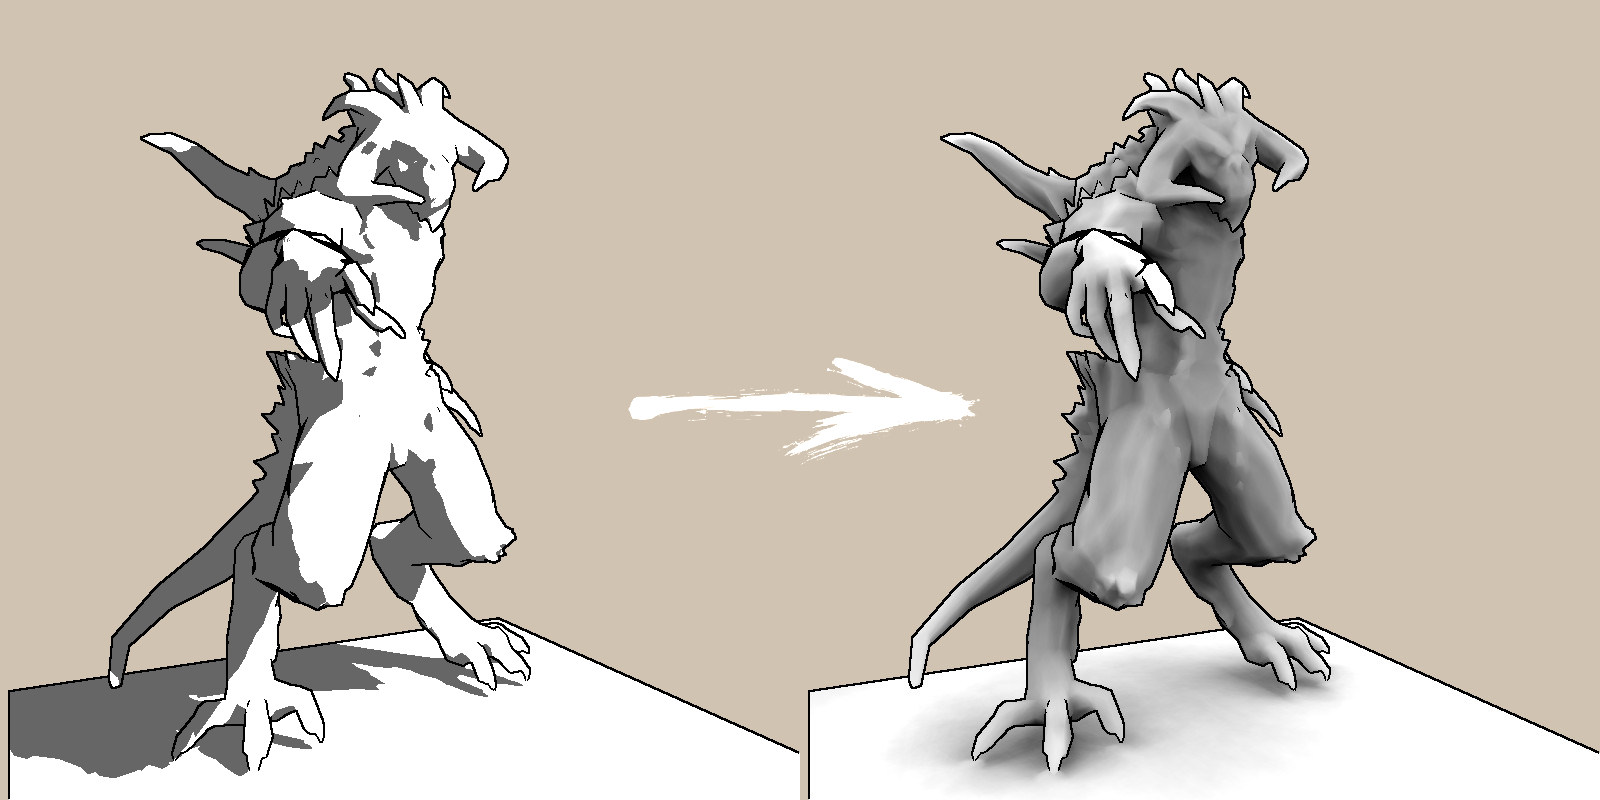
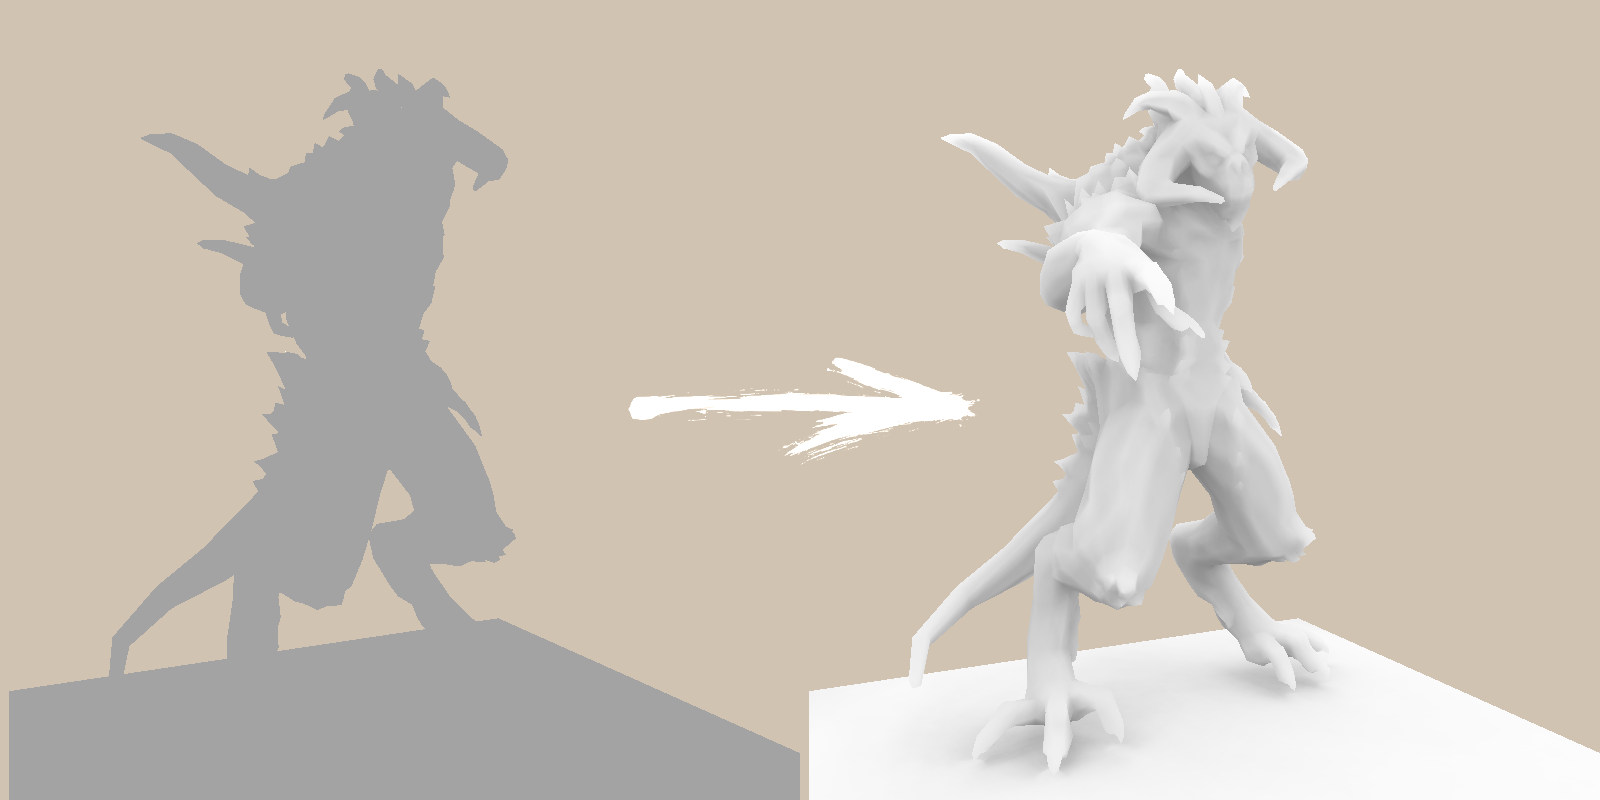
SSAO okayish

Changed region(s): [[0.0, 0.0938, 0.5, 1.0], [0.5625, 0.0938, 0.8438, 0.9688]]

diff --git a/docs/tinyrenderer/ssao.md b/docs/tinyrenderer/ssao.md
@@ -2,89 +2,96 @@
 title: Ambient occlusion
 ---
 
-# (Attention, work in progress) Ambient occlusion
+# Indirect lighting
 
-In the classical Phong reflection model, the ambient term is often represented as a simple constant added to the shading equation.
+## Introduction
+
+When light interacts with a scene, not all of it travels directly from a light source to a surface.
+Some of it bounces off other surfaces before arriving at the point we observe.
+This bounced light is called indirect lighting.
+
+For example, if you place a red ball on a white floor, the floor will pick up a faint reddish tint. That happens because light first hits the red ball, reflects off it, and then illuminates the floor:
+
+![](ssao/ball.jpg)
+
+Another example is a room lit by the sun through a window: even corners not directly exposed to the sunlight are visible. They receive light indirectly from the walls, floor, and ceiling.
+
+Indirect lighting is essential for realism because it accounts for how surfaces exchange light with each other. Without it, images look flat and artificial: shadows are completely black, and there’s no color bleeding between objects.
+
+## Ambient occlusion
+
+In the classical Phong reflection model, the ambient term is often represented as a simple **constant** added to the shading equation.
 This constant acts as a crude approximation of indirect lighting: it prevents regions not directly lit by any source from appearing completely black.
 While effective for real-time rendering, this approach lacks realism because it does not account for the actual geometry of the scene and how much of the surrounding light can reach a given point.
 
-A more physically motivated idea is to consider global illumination, where light is allowed to bounce and scatter between surfaces.
-One practical approximation of this idea is ambient occlusion (AO).
-Instead of assuming a uniform ambient term everywhere, AO measures how much of the hemisphere around a point is blocked by nearby geometry.
-Points in narrow crevices or under overhangs appear darker, while exposed points on open surfaces remain brighter.
-This creates the perception of depth and realism, even without fully simulating indirect light transport.
-
-A simple way to approximate ambient occlusion is by extending the concept of shadow mapping.
-In standard shadow mapping, we determine whether a point is visible from a light source, producing a binary "in shadow" or "lit" decision.
-For ambient occlusion, we could imagine rendering many such shadow maps from different directions across the hemisphere around a point, each one giving us a hard shadow.
-By averaging the results of many such "virtual shadow tests," we obtain a continuous measure of how occluded a point is by its surroundings.
-This technique transforms the idea of a constant ambient term into a geometry-aware shading effect, bridging the gap between Phong’s local model and global illumination.
-
 [![](ssao/teaser.jpg)](ssao/teaser.jpg)
+
+A more physically motivated idea is to consider **global illumination**, where light is allowed to bounce and scatter between surfaces.
+This approach is computationally expensive, though. One practical approximation of this idea is **ambient occlusion (AO)**.
+
+Instead of assuming a uniform ambient term everywhere, we can approximate indirect lighting by extending the concept of shadow mapping.
+In standard shadow mapping, we determine whether a point is visible from a light source, producing a binary "in shadow" or "lit" decision.
+
+For ambient occlusion, we could imagine rendering many such shadow maps from different directions across the hemisphere around the object, each one giving us a hard shadow.
+By averaging the results of many such "virtual shadow tests," we obtain a continuous measure of how occluded a point is by its surroundings.
+Here I show 1000 camera positions I have used to obtain the image:
+
 
 ![](ssao/samples.jpg)
 
-# Screen-space ambient occlusion
+This technique transforms the idea of a constant ambient term into a geometry-aware shading effect, bridging the gap between Phong’s local model and global illumination.
+Points in narrow crevices or under overhangs appear darker, while exposed points on open surfaces remain brighter.
+This creates the perception of depth and realism, even without fully simulating indirect light transport.
 
-## Bonus: Sobel edge detection
+## Homework 1
 
-Think of a row of pixel intensities as of a 1D signal.
-In 1D, edge detection is just about finding changes in signal intensity.
-An edge is where the signal changes quickly.
+Implement this brute-force approach of ambient occlusion computation.
+If you have already implemented shadow mapping, this one should be straightforward.
 
-The simplest way:
+As always, my implementation [is available here](https://github.com/ssloy/tinyrenderer/tree/974424b09ee46fe50a89b9dadaa743942f2b4adc).
 
-    Look at the left neighbor and the right neighbor.
+## Screen-space ambient occlusion
 
-    Subtract them.
+The idea of computing ambient occlusion with many shadow maps is conceptually straightforward: render the scene from many different directions, check which points are visible and which are blocked, and then average the results.
+This captures how much of the surrounding hemisphere is occluded by geometry.
 
-That’s exactly what the 1D Sobel filter [-1, 0, +1] does:
+While this method can produce very realistic results, it requires a large number of shadow map renders per frame, which makes it far too expensive for real-time applications such as games.
+To overcome this, graphics researchers developed Screen-Space Ambient Occlusion (SSAO).
+Instead of sampling the entire 3D scene from many directions, SSAO estimates occlusion using only the information already available in the **screen space**, namely the **depth buffer** (distance from the camera for each pixel) and sometimes the **normal buffer** (surface orientation).
 
-    Multiply left pixel by -1
+The basic idea is:
 
-    Ignore the center
+- For each fragment, randomly sample a few points around it.
+- Compare the sampled points’ depths with the depth buffer.
+  If a sample point is behind existing geometry (occluded), it contributes to the ambient shadowing of that pixel.
+- Average over the samples to estimate how occluded the fragment is.
 
-    Multiply right pixel by +1
+Here is an illustration:
 
-    Add them up → big value if there’s a jump, small if flat.
+![](ssao/ssao.jpg)
 
+In this example, I consider the fragment shown in red, and generate 128 samples around it.
+Those in blue are occluded by the surface; the ratio of green points to 128 is my estimate of indirect lighting :)
 
+This approach is much faster than averaging over many shadow maps, because it reuses data that is already computed for rendering.
+In my example we only use the z-buffer to compute the indirect lighting, so the speed does not depend on the complexity of the geometry, it only depends on the screen resolution.
 
-In 2D images, we care about changes in intensity along x and y directions: edges can go horizontally or vertically.
+SSAO is only an approximation, as it cannot “see” geometry that is off-screen, and may introduce artifacts.
+Nevertheless, it provides a convincing sense of contact shadows and depth perception at interactive frame rates.
+That’s why SSAO and its refinements are widely used in modern real-time rendering pipelines.
 
+## Homework 2
 
-Sobel defines two 3×3 convolution kernels:
+Implement a SSAO technique.
+There are many possible variants.
 
+For example, for each fragment, we can consider the hemisphere oriented around the surface normal, and generate sample points within or on this hemisphere.
+Different kinds of artifacts can appear: for instance, in the image above, fragments near the screen boundary are somewhat lighter than those farther from the boundary.
+The image is also noisy — how could we improve it?
 
-    Gxemphasizes horizontal changes (edges vertical in the image).
+There is no single "right" answer. Invent an approach, implement it, improve it. Rinse, repeat.
 
-    Gy emphasizes vertical changes (edges horizontal in the image).
-
-The final gradient magnitude is:
-
-
-So Sobel uses two small 3×3 grids:
-
-    Horizontal edges (changes left↔right):
-
--1  0  +1
--2  0  +2
--1  0  +1
-
-    Vertical edges (changes up↔down):
-
--1 -2 -1
- 0  0  0
-+1 +2 +1
-
-Then we combine them:
-
-    Gx = how strong the left↔right change is.
-
-    Gy = how strong the up↔down change is.
-
-    Edge strength = sqrt(Gx² + Gy²).
-
+My implementation is [available here](https://github.com/ssloy/tinyrenderer/tree/ssao).
 
 --8<-- "comments.html"
 

diff --git a/docs/tinyrenderer/toon.md b/docs/tinyrenderer/toon.md
@@ -1,0 +1,68 @@
+# Bonus: toon shading
+
+##  Attention, work in progress
+
+<!--
+##  Sobel edge detection
+
+Think of a row of pixel intensities as of a 1D signal.
+In 1D, edge detection is just about finding changes in signal intensity.
+An edge is where the signal changes quickly.
+
+The simplest way:
+
+    Look at the left neighbor and the right neighbor.
+
+    Subtract them.
+
+That’s exactly what the 1D Sobel filter [-1, 0, +1] does:
+
+    Multiply left pixel by -1
+
+    Ignore the center
+
+    Multiply right pixel by +1
+
+    Add them up → big value if there’s a jump, small if flat.
+
+
+
+In 2D images, we care about changes in intensity along x and y directions: edges can go horizontally or vertically.
+
+
+Sobel defines two 3×3 convolution kernels:
+
+
+    Gxemphasizes horizontal changes (edges vertical in the image).
+
+    Gy emphasizes vertical changes (edges horizontal in the image).
+
+The final gradient magnitude is:
+
+
+So Sobel uses two small 3×3 grids:
+
+    Horizontal edges (changes left↔right):
+
+-1  0  +1
+-2  0  +2
+-1  0  +1
+
+    Vertical edges (changes up↔down):
+
+-1 -2 -1
+ 0  0  0
++1 +2 +1
+
+Then we combine them:
+
+    Gx = how strong the left↔right change is.
+
+    Gy = how strong the up↔down change is.
+
+    Edge strength = sqrt(Gx² + Gy²).
+
+-->
+
+--8<-- "comments.html"
+

diff --git a/docs/tinyrenderer/rasterization.md b/docs/tinyrenderer/rasterization.md
@@ -1,7 +1,3 @@
----
-title: Triangle rasterization
----
-
 # Triangle rasterization
 
 Let me remind you: this series of articles is designed to encourage you to write your own code from scratch.

diff --git a/docs/tinyrenderer/shadow.md b/docs/tinyrenderer/shadow.md
@@ -1,7 +1,3 @@
----
-title: Shadow mapping
----
-
 # Shadow mapping
 
 ## Introduction

diff --git a/docs/tinyrenderer/shading.md b/docs/tinyrenderer/shading.md
@@ -1,7 +1,3 @@
----
-title: Shading
----
-
 # Shading
 
 ## The rendering pipeline
